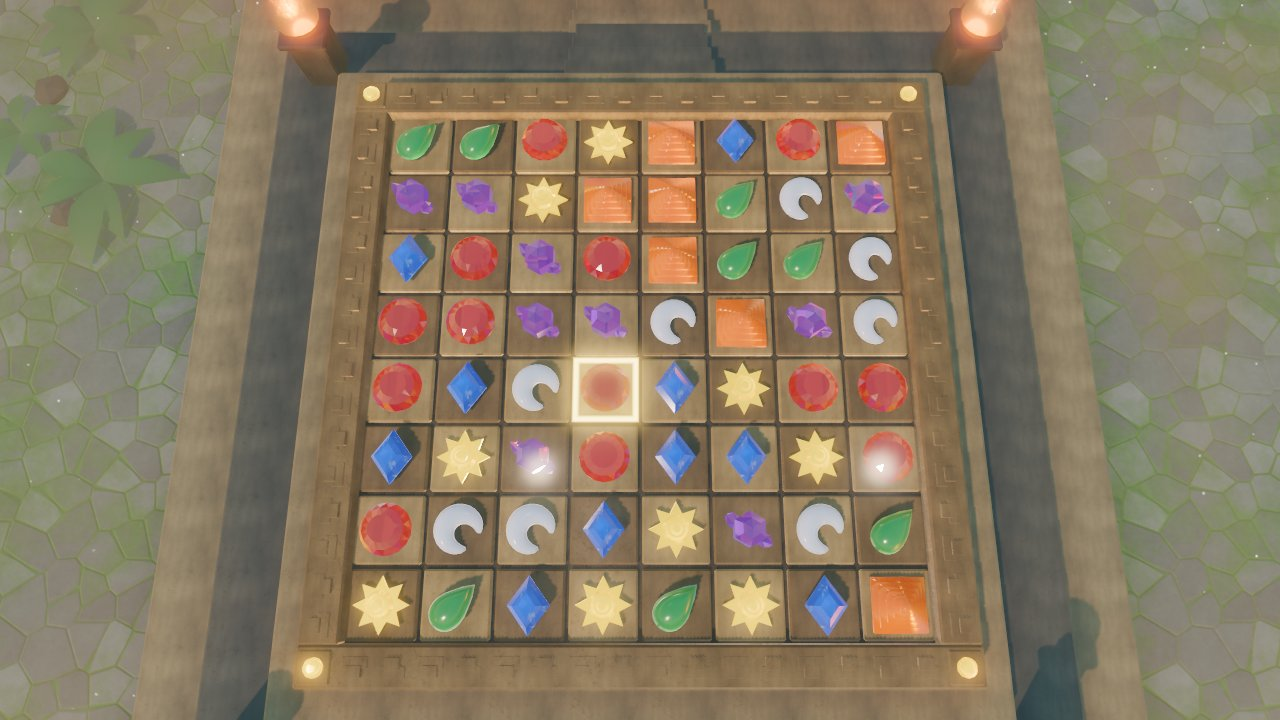
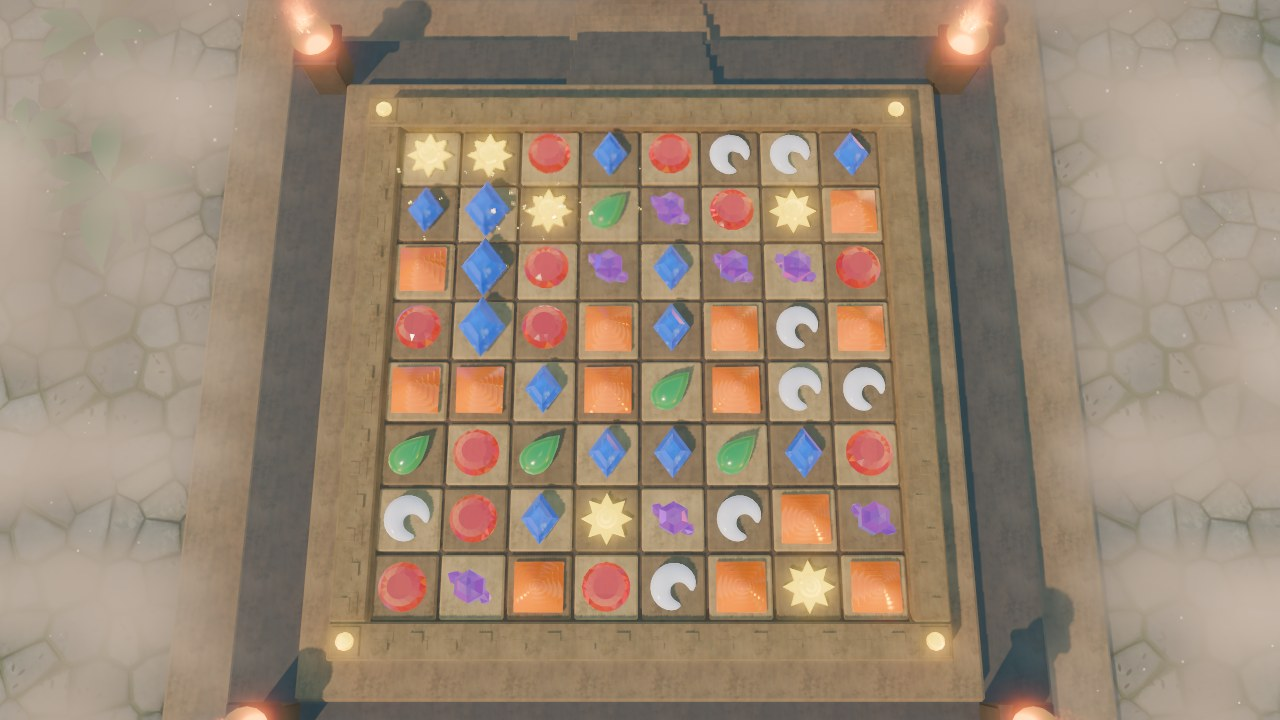
feat(assets): turn the temple's volumetric fog into ground mist in banks (#79)
* feat(assets): turn the temple's volumetric fog into ground mist in banks

The WP-51 fog was an even 2.4 m layer of cream air lit by single
scattering. From the near top-down camera that read as a tinted filter
over the plaza, darker and browner than the floor, and its extra
brightness pulled auto exposure and so the board down.

The fog shader now builds mist from the plaza floor up: slowly drifting
banks with clear floor between them, thicker away from the platform,
wisps drawn out along the wind, and lit tops. The albedo is near white,
the sun's volumetric fog energy (7) stands in for the multiple scattering
Godot leaves out, GI and ambient injection are low so mist in shade stays
dim, and the volume stops at the board's height. Auto exposure scale
goes from 0.4 to 0.45 (desktop only, like the fog) so the board renders
as bright as with no fog. GPU time on an RTX 4080 SUPER is unchanged.

Docs: fog references in art direction, atmosphere explanation, board
themes, benchmark results, provenance, lookdev frames.

Refs: WP-51

* docs: settle the fog's phase function and record native-resolution costs

The art direction reference now says why thick mist is lit as diffuse
even though droplets scatter forward, with the same sun and camera
geometry as the atmosphere explanation. Benchmark results replace the
60 Hz 4080 table with uncapped native 4K runs and add the M4 native 5K
row.

Refs: WP-51

* docs: describe the 4080 runs without the withdrawn GPU lock

Refs: WP-51
[…]

diff --git a/tools/assets/gen_theme_scenes.py b/tools/assets/gen_theme_scenes.py
@@ -372,7 +372,7 @@ def atmosphere(r, p, models):
     vol, dust, shafts = a["volumes"], a["dust"], a["shafts"]
     half = p["board"]["width"] * p["cell_size"] / 2 + p["board"]["frame_width"]
     keep_out = half + a["board_clearance"]
-    top = p["materials"]["MI_AtmosphereFog"]["params"]["height_top"]
+    top = vol["top"]
     # By path, not as a resource: QualityTiers loads it only on tiers with volumetric
     # fog, since Compatibility errors on any fog shader it is handed.
     fog_mat = f'"res://assets/materials/{theme}/MI_AtmosphereFog.tres"'
@@ -471,7 +471,6 @@ def main():
         board_half = p["board"]["width"] * p["cell_size"] / 2 + p["board"]["frame_width"]
         fog_params = p["materials"]["MI_AtmosphereFog"]["params"]
         fog_params["clear_half"] = round(board_half + p["lighting"]["atmosphere"]["volumes"]["clearance"], 3)
-        fog_params["sun_direction"] = [round(v, 5) for v in sun_toward(p["environment"]["sun"]["transform"])]
     assets = ROOT / "game/assets"
     models = f"res://assets/models/{theme}"
     entry = {}
@@ -581,8 +580,11 @@ def main():
                "", '[node name="Sun" type="DirectionalLight3D" parent="."]', f"transform = {env['sun']['transform']}",
                f"light_intensity_lux = {sun['lux']}", f"light_temperature = {sun['kelvin']}",
                f"light_color = {color(sun['color'])}",
-               f"light_angular_distance = {sun['angular_distance']}", "shadow_enabled = true",
-               "directional_shadow_max_distance = 40.0"]
+               f"light_angular_distance = {sun['angular_distance']}",
+               # How strongly the sun lights the volumetric fog (WP-51): it stands
+               # in for the multiple scattering Godot's single-scattering fog leaves out.
+               *([f"light_volumetric_fog_energy = {sun['fog_energy']}"] if "fog_energy" in sun else []),
+               "shadow_enabled = true", "directional_shadow_max_distance = 40.0"]
     # A fire in each brazier (the braziers stand on pillars at the corners,
     # gen_theme_meshes.py); each carries its own flickering light.
     half = p["board"]["width"] * p["cell_size"] / 2 + p["board"]["frame_width"] + 0.95

diff --git a/docs/reference/board-themes.md b/docs/reference/board-themes.md
@@ -190,8 +190,8 @@ the parameter file's `lighting` section:
 | Node | Type | Tiers | Parameters (`lighting.*`) | Temple |
 |---|---|---|---|---|
 | `WorldEnvironment` | sky, AgX tonemapper, SSAO, SSIL, glow, optional height fog | all (switches per [Quality tiers](quality-tiers.md)) | `sky_nits`, `agx_white`, `agx_contrast`, optional `fog` (`color`, `height`, `height_density`, `sky_affect`) | 15,000 nits; white 16, contrast 1.25; no height fog. Volumetric fog on, with no density of its own: see [Atmosphere](#atmosphere) |
-| `camera` (`CameraAttributesPractical`) | exposure, on the environment, `LightmapGI` and `VoxelGI` | auto exposure on desktop only | `exposure` (`sensitivity`, `multiplier`, `auto_scale`, `auto_speed`, `auto_min_sensitivity`, `auto_max_sensitivity`) | ISO 440 (auto 300 to 640) |
-| `Sun` | `DirectionalLight3D`, shadows | all | `sun` (`lux`, `kelvin`, `color`, `angular_distance`) | 11,000 lux, 4500 K, 0.6° |
+| `camera` (`CameraAttributesPractical`) | exposure, on the environment, `LightmapGI` and `VoxelGI` | auto exposure on desktop only | `exposure` (`sensitivity`, `multiplier`, `auto_scale`, `auto_speed`, `auto_min_sensitivity`, `auto_max_sensitivity`) | ISO 440 (auto 300 to 640), `auto_scale` 0.45 (raised from 0.4 so the bright mist does not pull the board darker; auto exposure and the fog are both desktop-only) |
+| `Sun` | `DirectionalLight3D`, shadows | all | `sun` (`lux`, `kelvin`, `color`, `angular_distance`, optional `fog_energy` → `light_volumetric_fog_energy`) | 11,000 lux, 4500 K, 0.6°, fog energy 7 (see [Atmosphere](#atmosphere)) |
 | `Fire1`…`Fire4/Light` | `FlickerLight3D` in each brazier's `PF_BrazierFire` ([Fire](fire.md)), dual paraboloid shadows (seam flat above the board), group `quality_shadow_light` | all; shadows on the nearest 8 or 2 | `torch` (`lumens`, `kelvin`, `color`, `size`, `range`) | 60,000 lm, 1900 K, range 4.5 m |
 | `SkyFill` | `AreaLight3D` over the board, group `quality:area_light`, not baked | `desktop-high` | `sky_fill` (`transform`, `lumens`, `color`, `size`, `range`) | 20,000 lm, 10 × 10 m |
 | `ReflectionProbe` | box-projected probe; leaves out render layer 2 (fire effects, [Fire](fire.md#pf_brazierfire), and the light-shaft cards) | all | `reflection_probe` (`position`, `size`) | 12 × 4 × 12 m |
@@ -231,8 +231,8 @@ theme's sensitivity); each emissive material also gets a `lo/` copy at
 
 ## Atmosphere
 
-Dusty, sunlit air around the temple: volumetric fog with sun shafts and
-dust on the desktop tiers, light-shaft cards in its place on mobile and web.
+Ground mist and dust around the temple: volumetric fog lying in banks on
+the plaza, cut by the shadows of the temple and ferns, and dust on the desktop tiers, light-shaft cards in its place on mobile and web.
 Nothing of it is ever over the board (readability rule 2 in the
 [Visual target](visual-target.md#readability-rules-every-tier)). Why it is
 built this way: [About the atmosphere](../explanation/about-the-atmosphere.md).
@@ -243,8 +243,8 @@ parameter file's `lighting.atmosphere` section and the `MI_AtmosphereFog`,
 
 | Node | Type | Tiers | Parameters | Temple |
 |---|---|---|---|---|
-| `WorldEnvironment` | volumetric fog on, global density 0 | `desktop-high` (64 × 64 froxels), `desktop-standard` (32 × 32) | `atmosphere.fog` (`anisotropy`, `length`, `detail_spread`, `gi_inject`, `ambient_inject`, `temporal_amount`) | isotropic (the camera looks down, the sun comes from above); 40 m; GI 0.4, ambient 0.3 |
-| `AtmosphereFog` | box `FogVolume` around the temple, group `quality:volumetric_fog`; its material path in `metadata/fog_material_path` | desktop | `atmosphere.volumes` (`clearance`, `outer`, `bottom`); `MI_AtmosphereFog` (below) | 38 × 38 m, from 2.6 m below the board to the fog's `height_top` |
+| `WorldEnvironment` | volumetric fog on, global density 0 | `desktop-high` (64 × 64 froxels), `desktop-standard` (32 × 32) | `atmosphere.fog` (`anisotropy`, `length`, `detail_spread`, `gi_inject`, `ambient_inject`, `temporal_amount`) | isotropic; 30 m, detail spread 1 (even slices, so the low mist far below the camera is as finely sliced as the air near it); GI 0.05, ambient 0.2 (mist in shade is dim and lit by the sky, not glowing) |
+| `AtmosphereFog` | box `FogVolume` around the temple, group `quality:volumetric_fog`; its material path in `metadata/fog_material_path` | desktop | `atmosphere.volumes` (`clearance`, `outer`, `bottom`, `top`); `MI_AtmosphereFog` (below) | 38 × 38 m, from 2.6 m below the board to the board's height |
 | `Dust` | `GPUParticles3D`, ring around the platform, `MI_Dust`, group `quality:volumetric_fog` | desktop | `atmosphere.dust` (`amount`, `lifetime`, `inner_radius`, `outer_radius`, `bottom`, `top`, `size`, `speed`, `turbulence`) | 320 motes, 8.5 to 13 m from the centre, 5 cm, at most 5 cm/s |
 | `LightShaftCards` | `Node3D` holding one `MeshInstance3D` quad per card (`Card01`…), along the sun, `MI_LightShaft`, group `quality_fallback:volumetric_fog`; the cards are on render layer 2 so the reflection probe leaves them out | `mobile`, `web` | `atmosphere.shafts` (`count`, `inner_radius`, `outer_radius`, `length`, `width`, `ground`) | 12 cards, 3.5 to 5.5 m long, 12 draw calls |
 
@@ -255,16 +255,24 @@ fades in over `fade` metres outside it. The material's parameters:
 
 | Parameter | Temple | Meaning |
 |---|---|---|
-| `density` | 0.4 | extinction per metre where the noise is full |
-| `albedo` | `#f2dcb0` | colour of the dust that scatters the light |
+| `density` | 6 | extinction per metre in the core of a bank: the floor all but disappears under one |
+| `albedo` | `#ebedf0` | scattering colour; mist is water and scatters every colour alike, so it is near white and the light gives it its colour |
 | `clear_half` | 6.15 (set by the generator) | half the side of the fog-free square: board half-size 4.55 + clearance 1.6 |
 | `fade` | 1.2 m | ramp from no fog to full fog outside that square |
-| `height_top`, `top_fade` | 2.4 m, 2.4 m | the fog thins to nothing at `height_top`, over `top_fade` |
-| `noise_scale`, `wind` | 6 m, (0.12, 0, −0.05) m/s | size of one noise tile, and its drift |
-| `sun_direction` | set by the generator from `environment.sun` | the noise is stretched along it, so the air lines up into shafts |
-| `shaft_stretch` | 8 | how much longer the noise is along the sun than across |
-| `contrast` | (0.35, 0.75) | noise values mapped to no fog and full fog |
+| `ground_y` | −1.92 m | the plaza floor the mist lies on (platform top −0.42 m less three 0.5 m tiers) |
+| `bank_height`, `top_soft` | 1.4 m, 0.6 m | tallest a bank gets above the floor, and how far its top fades out |
+| `thicken_over`, `near_amount` | 7 m, 0.5 | banks next to the platform are `near_amount` as tall as those `thicken_over` metres out: more mist further away |
+| `bank_scale`, `coverage` | 9 m, (0.56, 0.64) | size of one tile of bank noise, and the noise values mapped to no bank and a full bank; the narrow range leaves clear floor between banks |
+| `wisp_scale`, `wisp_stretch`, `wisp_amount` | 4 m, 3, 0.35 | finer noise drawn out along the wind that breaks up the banks' tops and edges |
+| `wind` | (0.12, 0, −0.05) m/s | drift of the banks (the wisps drift 1.6 times faster) |
+| `base_shade` | 0.75 | share of the light the bottom of a bank scatters against its top; Godot's fog does not shadow itself, so this gives the banks lit tops |
 | `density_texture` | `NoiseTexture3D`, 64³, seed 51, frequency 0.08 | from `noise_textures_3d`, built by Godot at load |
+
+The sun's `fog_energy` (7) makes up for Godot lighting the fog by single
+scattering only: mist this thick scatters light many times, and with
+single scattering alone it renders darker than the floor under it, a grey
+veil instead of white mist. Scaling the shader's albedo above 1 does not
+do it: in our captures albedo × 4 and × 7 looked the same.
 
 The fog material is not in the scene as a resource. `QualityTiers` loads
 it from the volume's metadata on tiers with volumetric fog and clears it on
@@ -356,7 +364,8 @@ look packages compare against these.
 | [temple-lineup-desktop.jpg](../images/lookdev/temple-lineup-desktop.jpg) | `LD_Temple_LineUp_Hi` | Forward+ | desktop `hi/` |
 | [temple-board-lit-web.jpg](../images/lookdev/temple-board-lit-web.jpg) | game, benchmark board | Compatibility (`web`) | WP-47 lighting, lightmap baked |
 | [temple-board-lit-desktop-high.jpg](../images/lookdev/temple-board-lit-desktop-high.jpg) | game, benchmark board | Forward+ (`desktop-high`) | WP-47 lighting, lightmap and `VoxelGI` |
-| [temple-atmosphere-desktop-high.jpg](../images/lookdev/temple-atmosphere-desktop-high.jpg) | `LD_Temple_Hi` | Forward+ (`desktop-high`) | WP-51 volumetric fog and dust, no lightmap |
+| [temple-atmosphere-before-mist.jpg](../images/lookdev/temple-atmosphere-before-mist.jpg) | `LD_Temple_Hi` | Forward+ (`desktop-high`) | WP-51 volumetric fog and dust as first built (an even cream layer), no lightmap |
+| [temple-atmosphere-desktop-high.jpg](../images/lookdev/temple-atmosphere-desktop-high.jpg) | game, benchmark board | Forward+ (`desktop-high`), RTX 4080 SUPER | ground mist in banks and dust, lightmap and `VoxelGI` |
 | [temple-atmosphere-mobile.jpg](../images/lookdev/temple-atmosphere-mobile.jpg) | `LD_Temple` | Mobile (`mobile`) | WP-51 light-shaft cards, no lightmap |
 | [temple-atmosphere-web.jpg](../images/lookdev/temple-atmosphere-web.jpg) | `LD_Temple` | Compatibility (`web`) | WP-51 light-shaft cards, no lightmap |
 

diff --git a/docs/explanation/about-the-atmosphere.md b/docs/explanation/about-the-atmosphere.md
@@ -1,9 +1,9 @@
 <!-- SPDX-License-Identifier: GPL-2.0-or-later -->
 # About the atmosphere
 
-*Explanation. Why the temple's dusty air is one fog volume that is empty
-over the board, why its shafts come from stretched noise, and why mobile
-and web get cards. The parameters are in
+*Explanation. Why the temple's mist is one fog volume that is empty over
+the board, why it lies in banks on the plaza and is lit as brightly as it
+is, and why mobile and web get cards. The parameters are in
 [Board themes: Atmosphere](../reference/board-themes.md#atmosphere).*
 
 ## What it has to do
@@ -40,22 +40,61 @@ seen from a camera nearly straight above, rays to the board's edge pass
 over the platform at a height that grows with distance from the board;
 low air beside the platform is never in their way.
 
-## Shafts from above
+## Why the first pass looked like dirty glass
 
-Shafts in fog come from shadow: lit air beside air that something shades.
-From the game camera, looking almost straight down, a shaft is not a beam
-coming at you but a streak along the ground in the sun's direction. The
-temple's tiers, pillars and ferns cast some, but they are short. The fog
-shader adds the rest by stretching its noise eight times along the
-direction to the sun: thicker and thinner air line up into slanted
-columns, which the camera sees as streaks, and which the dust in them
-catches. The noise drifts slowly with a wind, so the streaks move a
-little, as dust does.
+The first pass (WP-51) filled the plaza with an even layer of cream air,
+2.4 m deep, lit by single scattering. From a camera looking almost
+straight down, an even layer is just a tint over the floor: nothing in it
+changes from place to place, so the eye reads it as a filter on the
+picture rather than as something lying in the scene. It was also dim.
+Godot lights fog by single scattering, and an isotropic droplet layer lit
+that way returns less light than the sunlit floor under it, so the "fog"
+made the plaza greyer and browner rather than whiter. And because auto
+exposure meters the whole frame, the brighter haze pulled the board
+darker too.
 
-The phase function is isotropic. Fog that scatters forward (the usual
-choice for god rays seen against the sun) would send the sunlight down,
-away from a camera that looks down with the sun behind it, and the fog
-would only darken the ground.
+## Mist in banks
+
+Real mist (see [Fog references](art-direction.md#fog-references)) is
+read from how its thickness changes: floor crisp in a gap, floor gone
+under a bank, a fern sinking into it. So the shader builds the mist from
+the floor up. A large, slowly drifting noise decides where banks lie and
+how tall each is, with a narrow mapping so there is clear floor between
+them; a finer noise drawn out along the wind breaks up their tops and
+edges. Density is full at the floor and fades out over the top of each
+bank. Banks next to the platform are half as tall as those 7 m out, so
+the mist deepens away from the temple, which from above reads as depth.
+
+The fog volume now stops at the board's height. Nothing above the plaza
+needs fog any more, and the smaller volume leaves fewer froxels for the
+shader to fill.
+
+## Lit like mist, not like dust
+
+Mist droplets scatter almost all light and absorb almost none, at every
+colour, so the albedo is near white; the warm late sun gives the mist its
+colour. Since Godot's fog only scatters once, the sun's
+`light_volumetric_fog_energy` is raised to 7 to stand in for the many
+scatterings in mist this thick, which is what makes real mist about as
+bright as a white wall in the same light. Ambient and GI injection are
+low, so mist in shade is dim and slightly cool, and the shadows of the
+temple and ferns stay dark lanes through it: that is where shafts of light
+come from in real fog. Godot's fog does not shadow itself either, so the
+lower part of each bank scatters three quarters of the light its top
+does, which gives the banks lit tops.
+
+The phase function stays isotropic. The sun is behind and above the
+camera: light that reaches the camera from the mist has turned through
+about 144 degrees. A single-scattering forward lobe (real droplets have
+one) would send that light away from the camera and darken the mist, but
+in mist this thick the many scatterings even the lobe out, so isotropic is
+the closer match to what the eye sees.
+
+Auto exposure, which only the desktop tiers have, as they alone have the
+fog, still meters the brighter frame. The theme's `auto_scale` goes from
+0.4 to 0.45 so the board renders as bright as it does with no fog at all
+(mean RGB (162, 135, 114) against (163, 136, 114) without fog, 1920×1080,
+`e1-l01`, frame 150, RTX 4080 SUPER).
 
 ## Dust
 
@@ -100,3 +139,10 @@ and leaves CPU time unchanged. The haze does not wash the board out: the
 frame's saturation rises from 58.8 to 72.2 and its mean luma falls from
 133.3 to 131.1. The runs and their conditions are in
 [Benchmark results](../reference/benchmark-results.md#wp-51-atmosphere).
+
+The ground mist rework (banks on the floor, a volume that stops at the
+board's height) costs next to nothing: on the reference Mac at native 5K
+with no upscaler the median frame is 139.9 ms against 140.3 ms before, and
+on an RTX 4080 SUPER at native 4K, full screen and uncapped, the GPU time
+per frame goes from 9.78 to 9.85 ms; video memory is unchanged on both
+([Benchmark results](../reference/benchmark-results.md#ground-mist-rework)).

diff --git a/docs/explanation/art-direction.md b/docs/explanation/art-direction.md
@@ -119,6 +119,57 @@ every few metres around the board, so it is darker (base colour about 0.35
 against the stone's 0.65) and lower in contrast, and the board stays in
 front.
 
+## Fog references
+
+The first atmosphere pass (WP-51) read as a cream filter over the plaza,
+like looking through dirty sunglasses, not as fog. What real mist and
+haze look like, and so what the fog has to do:
+
+- **Mist is white, light gives it colour.** Fog and mist are water
+  droplets a few micrometres across. They scatter almost all the light
+  they meet and absorb next to none (single-scattering albedo close to
+  1), the same at every visible wavelength, so mist itself is neutral
+  white-grey. It looks gold in sunlight and blue-grey in shade because of
+  the light falling on it, never because it is tinted
+  ([Copernicus EGUsphere, radiation fog microphysics](https://egusphere.copernicus.org/preprints/2025/egusphere-2024-4074/egusphere-2024-4074.pdf);
+  [International Journal of Optics, fog optical properties](https://doaj.org/article/30d6ef1c005c417c8cb7aabd8744f863)).
+  The fog's albedo is therefore neutral, and its ambient light is low and
+  cool, so mist in shadow is dim rather than glowing.
+- **It scatters forward, but thick mist looks diffuse.** A single
+  droplet that size sends most light on in roughly the direction it was
+  travelling (asymmetry around 0.8), which is why a thin haze glows when
+  you look toward the sun. Mist thick enough to hide the ground scatters
+  each ray many times, and the light leaving it comes out nearly evenly
+  in every direction: a bank looks white from any side, even with the sun
+  behind you. That is the temple's case: the sun is behind and above the
+  game camera (light reaches the camera after turning through about 144
+  degrees), so the fog is lit as diffuse mist, not as forward-scattering
+  haze ([About the atmosphere](about-the-atmosphere.md#lit-like-mist-not-like-dust)).
+  Shadows of the pillars, steps and ferns falling through it stay dark,
+  and those lanes are what make it read as air with light in it.
+- **It pools and breaks up.** Dawn mist in the Maya plazas of Tikal and
+  Palenque forms in still, damp air on the ground and lies in the low
+  places, with a soft top and the ruins rising out of it; as it lifts it
+  breaks into drifting banks and wisps with clear ground between them
+  ([Dawn over Tikal](https://wheresmybackpack.com/2011/12/18/dawn-over-tikal/);
+  [Palenque ruins guide](https://www.mexicotravelandleisure.com/blog/palenque-ruins-guide/)).
+  An even layer seen from above is only a tint; the eye reads fog from
+  how its thickness changes: crisp floor in the gaps, floor gone under a
+  bank.
+- **It shows depth.** Mist hides more the more of it a ray crosses, so
+  ground further away and lower down fades more. Here the plaza falls
+  away from the platform, so the mist thickens toward the edges of the
+  frame and the low ground, and the raised platform stands clear of it.
+- **Haze shows light, not a wash.** Inside a temple, incense smoke and
+  dust are seen only where a shaft of sun passes through dark air; the
+  rest of the room stays dark and sharp. The haze's job is to make the
+  light visible, not to lighten the picture.
+
+None of these sources is copied; they only set what the fog shader and
+its lighting model. The parameters are in
+[Board themes: Atmosphere](../reference/board-themes.md#atmosphere) and
+the reasoning in [About the atmosphere](about-the-atmosphere.md).
+
 ## Light
 
 Late-afternoon sun from the far left at about 42 degrees, warm white, with

diff --git a/docs/reference/benchmark-results.md b/docs/reference/benchmark-results.md
@@ -172,6 +172,38 @@ frame there is shorter than 16.67 ms and p50 sits near that floor; the
 miss is in the tail. The follow-up is the M4's p95 tail (hitches and
 frames that miss a present), not the mean cost. The budget is unchanged.
 
+## Ground mist rework
+
+Cost of reworking the WP-51 fog into ground mist (`SH_AtmosphereFog`,
+`MI_AtmosphereFog` and `PF_Environment.tscn`) against `main`,
+`desktop-high`, bench scene, 2026-10-19.
+
+**Mac mini M4** (Metal, native 5K with no upscaler, vsync off, seed 52,
+10 s per run, both orders):
+
+| Build | `frame_ms` p50 | p95 | Video memory max |
+|---|---|---|---|
+| `main` at b67b96a | 140.3 | 146.2 | 2813 MB |
+| Ground mist (8bf141d) | 139.9 | 146.2 | 2813 MB |
+
+**RTX 4080 SUPER** (Vulkan, Forward+, NixOS, GNOME on Wayland, live
+desktop, exclusive full screen at native 3840×2160 with no upscaler,
+uncapped with the mailbox `override.cfg`, 6 s warm-up and 20 s capture,
+one run each with no other GPU work running). `desktop-high` normally hands
+anything above 720 lines to FSR 2; for these runs both builds used the
+same local, uncommitted build with `kHighInternalHeight` raised to 2160,
+so the 3D view rendered at native resolution. The `main` build is `main`
+at 791a680 with this change's three files swapped back.
+
+| Build | `frame_ms` p50 | p95 | `gpu_ms` p50 | p95 | Video memory max |
+|---|---|---|---|---|---|
+| `main` | 9.96 | 10.13 | 9.78 | 9.91 | 1459 MB |
+| Ground mist | 10.01 | 10.22 | 9.85 | 10.00 | 1459 MB |
+
+The mist adds about 0.07 ms of GPU time at native 4K (under 1%). It
+samples its 3D noise twice per froxel instead of once, over a fog volume
+half as tall.
+
 ## Feature rows
 
 `check_features.py` on the same reports. Rows that fail are the

diff --git a/game/assets/PROVENANCE.md b/game/assets/PROVENANCE.md
@@ -264,3 +264,24 @@ notes: >
   so an engine upgrade can change it. Regenerate with
   .venv/bin/python tools/assets/gen_theme_scenes.py.
 ```
+
+## Board theme `temple`: ground mist rework of the atmosphere fog
+
+```yaml
+asset: themes.temple atmosphere fog, reworked from an even dust layer into ground mist in banks
+files:
+  - game/assets/materials/shaders/SH_AtmosphereFog.gdshader    # rewritten by hand
+  - game/assets/materials/temple/MI_AtmosphereFog.tres
+  - game/assets/models/temple/backdrop/PF_Environment.tscn     # fog volume size, fog settings, sun fog energy, auto exposure scale
+  - docs/images/lookdev/temple-atmosphere-desktop-high.jpg     # our own capture of the running game
+origin: generated (same generator and noise as the WP-51 record above)
+authors: [technical-artist (Claude)]
+created: 2026-10-19
+source:
+  - tools/assets/gen_theme_scenes.py
+  - tools/assets/themes/temple.json (lighting.sun.fog_energy, lighting.exposure.auto_scale, lighting.atmosphere, MI_AtmosphereFog)
+references: docs/explanation/art-direction.md#fog-references (looked at, not copied or traced)
+inputs: []
+license: GPL-2.0-or-later
+attribution: ""
+```
